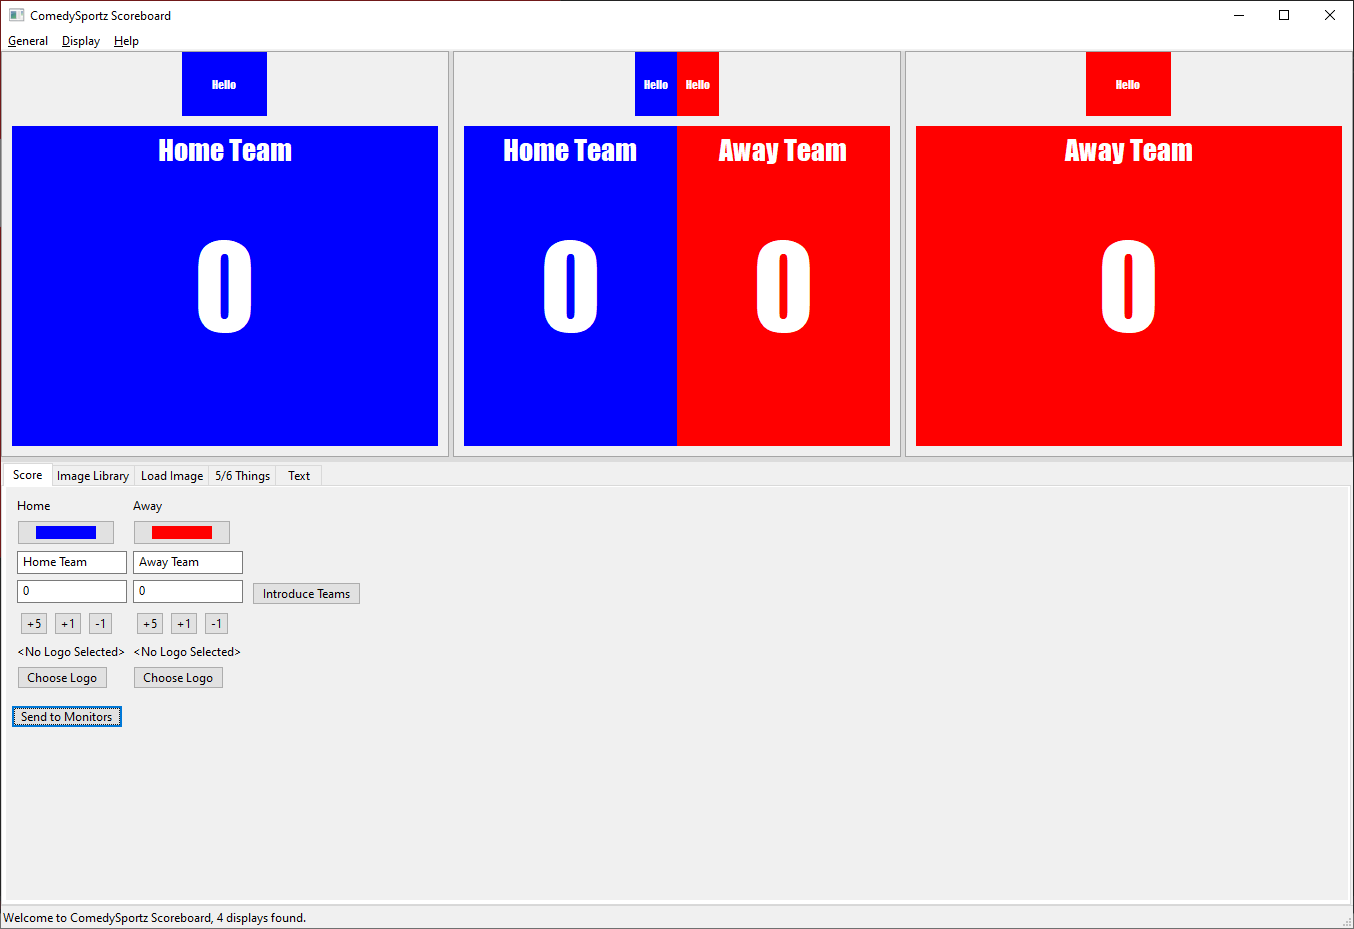
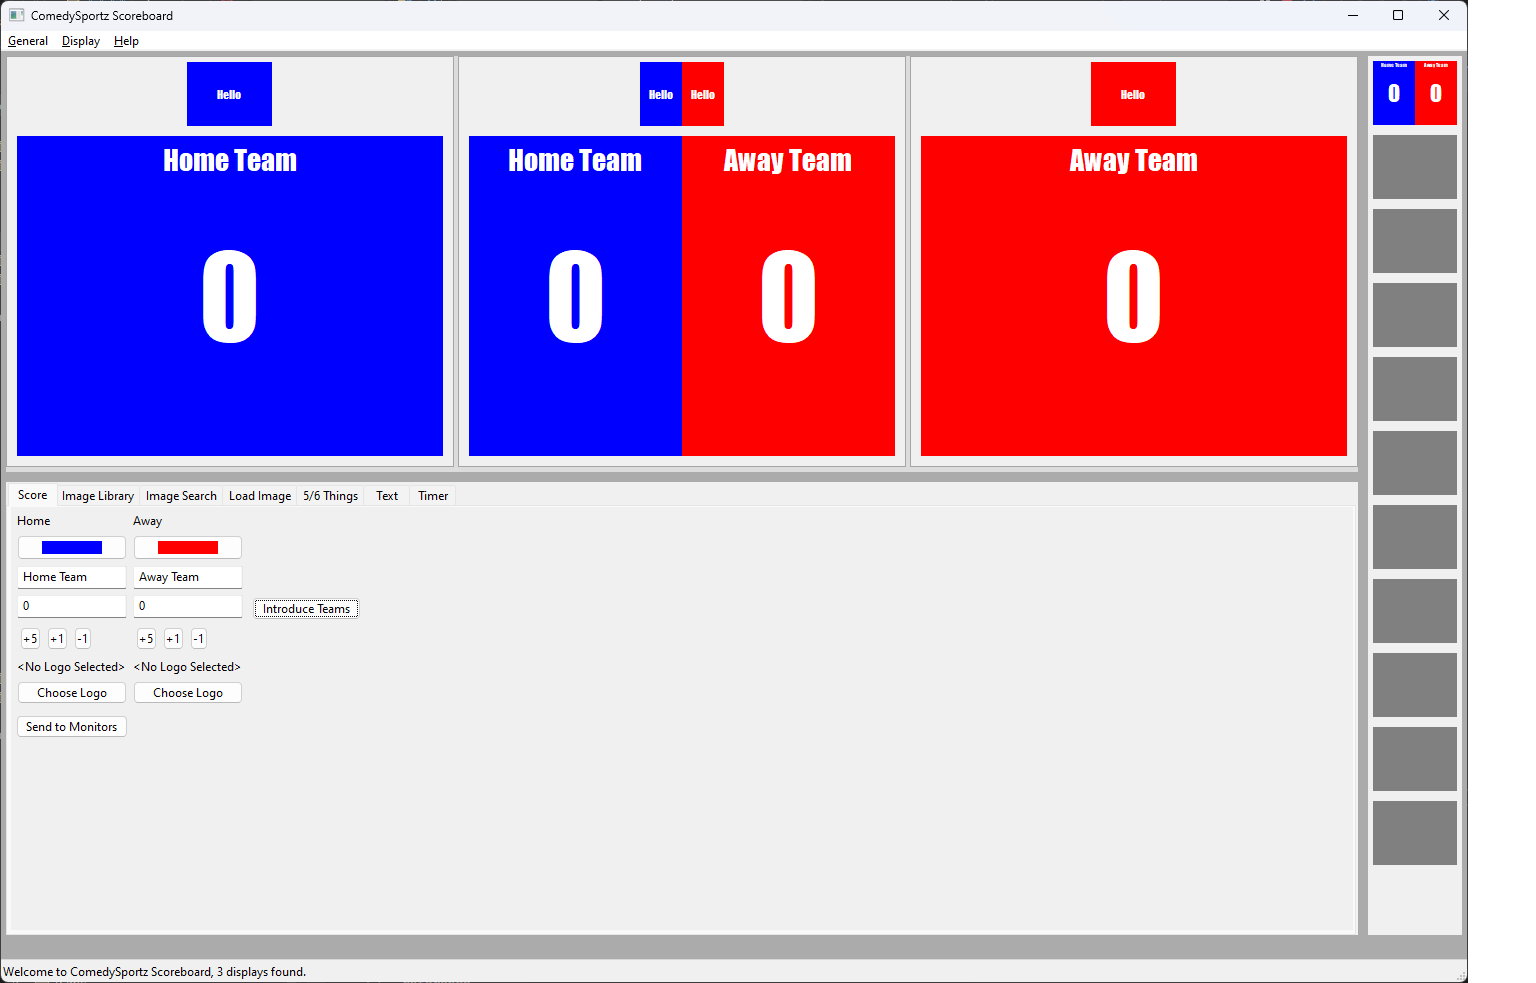
Round one of document updates.  New images and wording changes through the score control.

Changed region(s): [[0.0, 0.0, 1.0, 1.0], [0.7134, 0.2497, 0.7755, 0.3746], [0.1241, 0.2497, 0.1861, 0.3746]]

diff --git a/doc/users.md b/doc/users.md
@@ -49,11 +49,12 @@ When you first start the application, the main (or booth, or control) window sho
 like the following, depending on how many monitors it detects connected to your system:
 
 ![alt](img/startup.png "Window startup")
-_(image taken in version 0.9.1, some visuals may have changed)_
+_(image taken in version 1.5.0, some visuals may have changed)_
 
 Of special note are the status bar (along the bottom of the window), the screen previews (the larger
-blue and red boxes),  the screen thumbnanils (the smaller blue and red boxes),  and the "Send to
-Monitors" button (at the bottom of the controls at the bottom).
+blue and red boxes),  the screen thumbnanils (the smaller blue and red boxes),  the quick view panel
+(the gray boxes along the right side), and the "Send to Monitors" button (at the bottom of the
+controls at the bottom).
 
 The status bar will display how many monitors were detected at startup, and may show update
 information later in execution.
@@ -70,7 +71,8 @@ length below.
 ## Basic Functionality
 
 Functionally, every external monitor is assigned to one or more teams.  Controls typically allow
-settings to be made for one or all teams and will go to the screens which represent the selected team.  Every change from a control is immediately reflected in the screen preview panes as they're made.
+settings to be made for one or all teams and will go to the screens which represent the selected
+team.  Every change from a control is immediately reflected in the screen preview panes as they're made.
 
 The settings menu has options to control which monitor represents which team (or is a booth monitor)
 
@@ -86,10 +88,28 @@ home/away teams permanently, see the settings menu.
 The scoreboard begins with the score control tab selected, but each control tab's functionality is
 discussed in their own section, below.
 
+### Settings
+
+![alt](img/settings_display.png "Display Settings")
+_(image taken in version 1.5.0, some visuals may have changed)_
+
+The display settings allows you to change which monitors represent which team and which
+monitor/monitors belong to the booth.  The buttons immediately below each Display number may also be
+used to re-order the displays.  This is useful as you may wish to order them so that they map to the
+physical space you're in (from top to bottom, the displays will show up as previews in the main
+control from left to right)
+
+![alt](img/settings_team.png "Team Settings")
+_(image taken in version 1.5.0, some visuals may have changed)_
+
+The teams settings page currently allows you to select the default color of the home and away team
+as well as which order the teams appear in inside of split-screen monitors (using the same ordering
+controls as described for monitors, above).
+
 ### Score
 
 ![alt](img/scores.png "Score Control")
-_(image taken in version 0.9.1, some visuals may have changed)_
+_(image taken in version 1.5.0, some visuals may have changed)_
 
 The controls for score are in two columns, one for each team.  The columns reflect the team order
 configured in the settings menu.  This means if your theater has away on stage right and home on
@@ -103,12 +123,14 @@ the team names in a large, full-screen format, as below.  To return to the tradi
 press the button again (which will now be labelled "Show Scores")
 
 ![alt](img/team_intro.png "Introduce Teams")
-_(image taken in version 0.9.1, some visuals may have changed)_
+_(image taken in version 1.5.0, some visuals may have changed)_
 
 #### Team Logo Guidelines
 
-Team logos should be all white/black pngs.  All white is treated as transparency, all black will be
-rendered as a gradient of the font color for a semi-transparent overlay.
+Team logos should be all black pngs.  All transparency is treated as such, all black will
+be rendered as a gradient of the font color for a semi-transparent overlay.  Any color other than
+black (including grays or white) will render completely opaque, as if it were black, so it's best to
+author the images as just black to avoid confusion.
 
 ### Image Library
 
